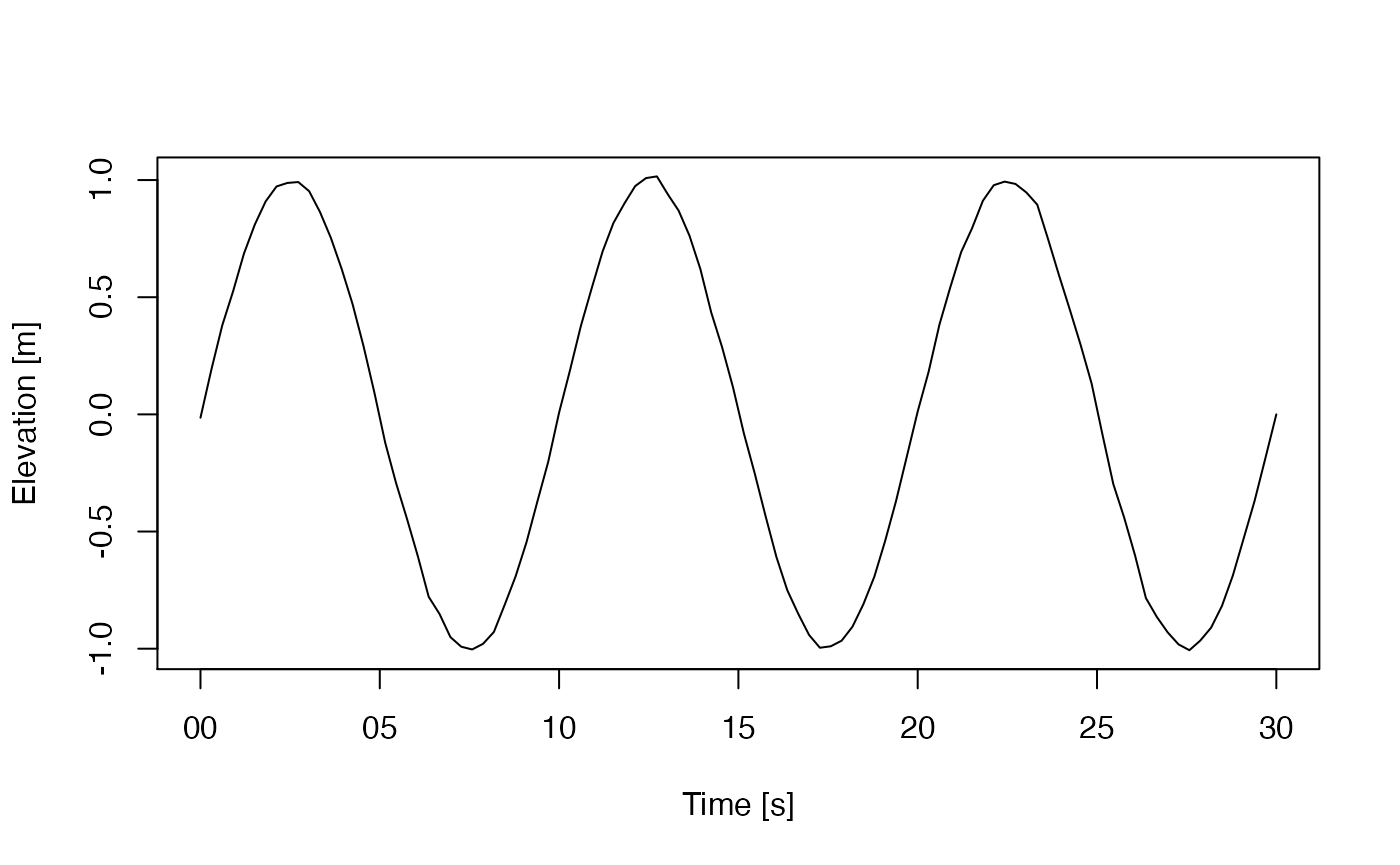
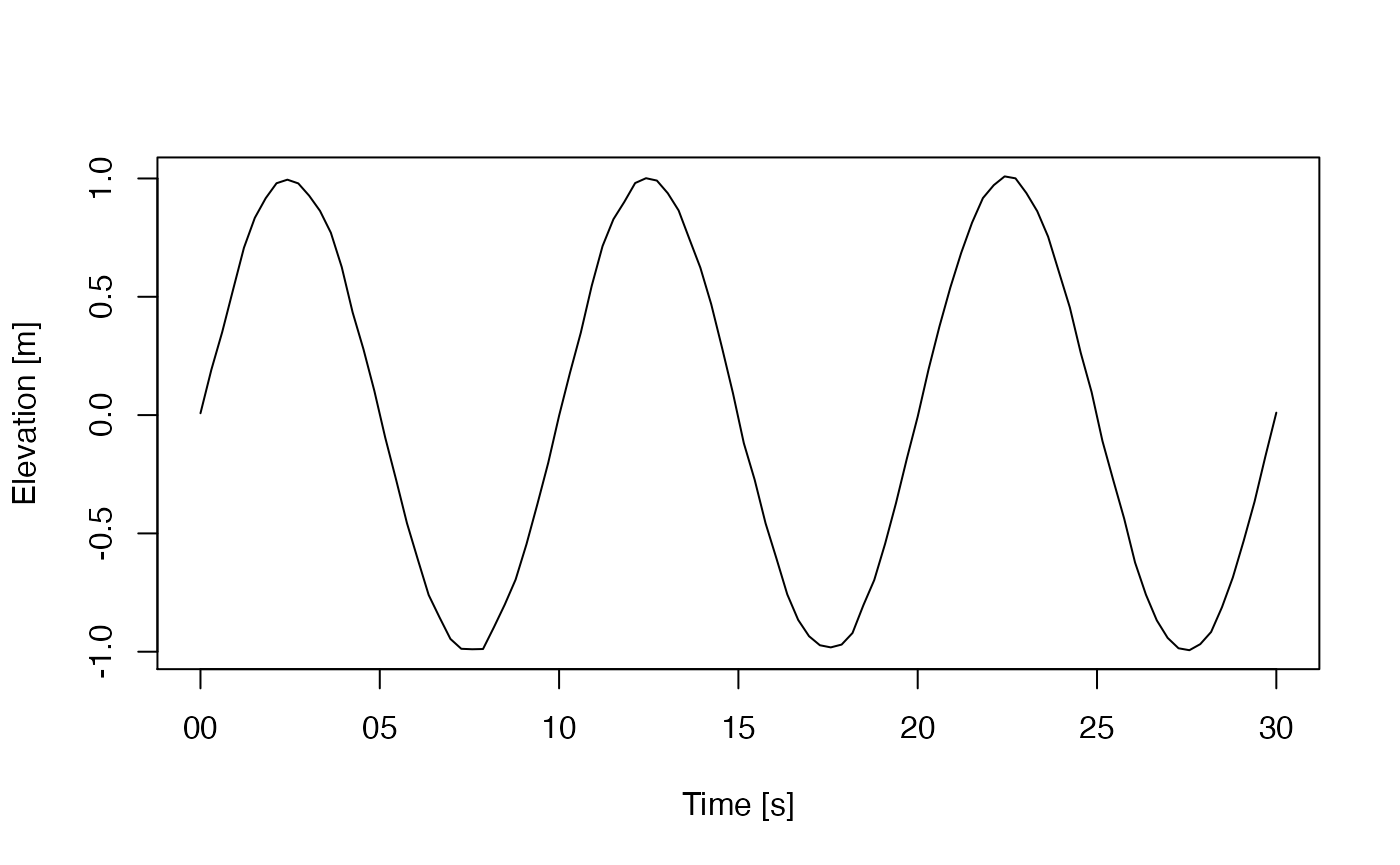
fix marmap cross ref?
I think the problem was that had e.g. `pkg::function` in a Roxygen line,
and the :: triggered Roxygen to build a link. I must have been thinking
that autolinks only happened with the [] syntax.

diff --git a/docs/articles/subclassing.html b/docs/articles/subclassing.html
@@ -141,7 +141,7 @@
 <span class="co">#&gt;   .. ..$ flags: list()</span>
 <span class="co">#&gt;   ..@ data         : list()</span>
 <span class="co">#&gt;   ..@ processingLog:List of 2</span>
-<span class="co">#&gt;   .. ..$ time : POSIXct[1:1], format: "2021-03-27 20:01:53"</span>
+<span class="co">#&gt;   .. ..$ time : POSIXct[1:1], format: "2021-03-27 21:21:56"</span>
 <span class="co">#&gt;   .. ..$ value: chr "Create oce object"</span></code></pre></div>
 <p>As noted previously, it’s possible to insert <code>t</code>, <code>u</code>, and <code>v</code> directly into the <code>data</code> slot, but it’s better to use <code>oceSetData</code> to do that, because it can set up units, and it leaves a trail in the processing log.</p>
 <div class="sourceCode" id="cb4"><pre class="downlit sourceCode r">
@@ -164,12 +164,12 @@
 <span class="co">#&gt; </span>
 <span class="co">#&gt; * Processing Log</span>
 <span class="co">#&gt; </span>
-<span class="co">#&gt;     - 2021-03-27 20:01:53 UTC: `Create oce object`</span>
-<span class="co">#&gt;     - 2021-03-27 20:01:53 UTC: `oceSetData(object = o, name = "t", value = t, unit = list(unit = expression(s),     scale = ""))`</span>
-<span class="co">#&gt;     - 2021-03-27 20:01:53 UTC: `oceSetData(object = o, name = "u", value = u, unit = list(unit = expression(m/s),     scale = ""))`</span>
-<span class="co">#&gt;     - 2021-03-27 20:01:53 UTC: `oceSetData(object = o, name = "v", value = v, unit = list(unit = expression(m/s),     scale = ""))`</span>
-<span class="co">#&gt;     - 2021-03-27 20:01:53 UTC: `oceSetMetadata(object = o, name = "longitude", value = lon)`</span>
-<span class="co">#&gt;     - 2021-03-27 20:01:53 UTC: `oceSetMetadata(object = o, name = "latitude", value = lat)`</span></code></pre></div>
+<span class="co">#&gt;     - 2021-03-27 21:21:56 UTC: `Create oce object`</span>
+<span class="co">#&gt;     - 2021-03-27 21:21:57 UTC: `oceSetData(object = o, name = "t", value = t, unit = list(unit = expression(s),     scale = ""))`</span>
+<span class="co">#&gt;     - 2021-03-27 21:21:57 UTC: `oceSetData(object = o, name = "u", value = u, unit = list(unit = expression(m/s),     scale = ""))`</span>
+<span class="co">#&gt;     - 2021-03-27 21:21:57 UTC: `oceSetData(object = o, name = "v", value = v, unit = list(unit = expression(m/s),     scale = ""))`</span>
+<span class="co">#&gt;     - 2021-03-27 21:21:57 UTC: `oceSetMetadata(object = o, name = "longitude", value = lon)`</span>
+<span class="co">#&gt;     - 2021-03-27 21:21:57 UTC: `oceSetMetadata(object = o, name = "latitude", value = lat)`</span></code></pre></div>
 <p>and individual data components may be extracted with the <code><a href="https://rdrr.io/r/base/Extract.html">[[</a></code> notation</p>
 <div class="sourceCode" id="cb7"><pre class="downlit sourceCode r">
 <code class="sourceCode R"><span class="va">o</span><span class="op">[[</span><span class="st">"latitude"</span><span class="op">]</span><span class="op">]</span>                        <span class="co"># from metadata</span>
@@ -247,7 +247,7 @@
 <span class="co">#&gt; </span>
 <span class="co">#&gt; * Processing Log</span>
 <span class="co">#&gt; </span>
-<span class="co">#&gt;     - 2021-03-27 20:01:53 UTC: `create 'uv' object`</span>
+<span class="co">#&gt;     - 2021-03-27 21:21:57 UTC: `create 'uv' object`</span>
 <span class="co">#&gt; NULL</span></code></pre></div>
 <p>Finally, let’s make a custom method for <code>plot</code>. This is usually the most complicated part of handling any new object class, because there are usually many ways to look at data. (Some <code>oce</code> objects have over a dozen specialized plot styles.) Let’s suppose there are only two desired plot styles: one showing timeseries of <code>u</code> and <code>v</code> in a two panel plot, and the other showing how <code>u</code> and <code>v</code> covary.</p>
 <div class="sourceCode" id="cb14"><pre class="downlit sourceCode r">
@@ -319,7 +319,7 @@
 <span class="co">#&gt;   .. ..$ flags: list()</span>
 <span class="co">#&gt;   ..@ data         : list()</span>
 <span class="co">#&gt;   ..@ processingLog:List of 2</span>
-<span class="co">#&gt;   .. ..$ time : POSIXct[1:1], format: "2021-03-27 20:01:54"</span>
+<span class="co">#&gt;   .. ..$ time : POSIXct[1:1], format: "2021-03-27 21:21:58"</span>
 <span class="co">#&gt;   .. ..$ value: chr "Create oce object"</span></code></pre></div>
 <p>Notice that <code>w</code> three <code>oce</code> “slots”, named <code>metadata</code>, <code>data</code> and <code>processingLog</code>. These are inherited from <code>oce</code>. The first is meant to hold information about the data, such as a file-name, an instrument number, a location of sampling, etc. The second is meant to hold actual data or measurements. And the third, not normally accessed by the user directly, holds information about the object’s evolution (note that the object considers itself an <code>oce</code> object). The names of these three slots are usually enough to keep them straight in the analyst’s head, although it can sometimes be difficult deciding whether something belongs in <code>metadata</code> or <code>data</code>.</p>
 <p>The <code>oce</code> system also provides its objects with certain operators and functions. For example, <code><a href="https://rdrr.io/r/base/Extract.html">[[</a></code> can be used to retrieve the slots, items within the slots, and (in some cases) values that may be calculated from the contents of the slots (e.g. <code>ctd</code> and similar objects related to hydrography can return calculated potential temperature or Conservative Temperature, even though neither is typically stored in such datasets).</p>
@@ -352,7 +352,7 @@
 <span class="co">#&gt;   .. ..$ station: chr "STN01"</span>
 <span class="co">#&gt;   ..@ data         : list()</span>
 <span class="co">#&gt;   ..@ processingLog:List of 2</span>
-<span class="co">#&gt;   .. ..$ time : POSIXct[1:1], format: "2021-03-27 20:01:54"</span>
+<span class="co">#&gt;   .. ..$ time : POSIXct[1:1], format: "2021-03-27 21:21:58"</span>
 <span class="co">#&gt;   .. ..$ value: chr "Create oce object"</span></code></pre></div>
 <p>However, there is a better way to insert metadata, with the <code>oceSetMetadata</code> function, e.g.</p>
 <div class="sourceCode" id="cb26"><pre class="downlit sourceCode r">
@@ -382,15 +382,15 @@
 <span class="co">#&gt; * Time ranges from 2019-01-01 to 2019-01-01 00:00:30 with 100 samples and mean increment 0.3030303 s</span>
 <span class="co">#&gt; * Data Overview</span>
 <span class="co">#&gt; </span>
-<span class="co">#&gt;                  Min.      Mean   Max. Dim. NAs OriginalName</span>
-<span class="co">#&gt;     elevation -1.0065 0.0016072 1.0156  100   0            -</span>
+<span class="co">#&gt;                   Min.       Mean   Max. Dim. NAs OriginalName</span>
+<span class="co">#&gt;     elevation -0.99361 0.00090052 1.0088  100   0            -</span>
 <span class="co">#&gt; </span>
 <span class="co">#&gt; * Processing Log</span>
 <span class="co">#&gt; </span>
-<span class="co">#&gt;     - 2021-03-27 20:01:54 UTC: `Create oce object`</span>
-<span class="co">#&gt;     - 2021-03-27 20:01:54 UTC: `oceSetMetadata(object = w, name = "serialNumber", value = 1234)`</span>
-<span class="co">#&gt;     - 2021-03-27 20:01:54 UTC: `oceSetData(object = w, name = "time", value = t)`</span>
-<span class="co">#&gt;     - 2021-03-27 20:01:54 UTC: `oceSetData(object = w, name = "elevation", value = e)`</span></code></pre></div>
+<span class="co">#&gt;     - 2021-03-27 21:21:58 UTC: `Create oce object`</span>
+<span class="co">#&gt;     - 2021-03-27 21:21:58 UTC: `oceSetMetadata(object = w, name = "serialNumber", value = 1234)`</span>
+<span class="co">#&gt;     - 2021-03-27 21:21:58 UTC: `oceSetData(object = w, name = "time", value = t)`</span>
+<span class="co">#&gt;     - 2021-03-27 21:21:58 UTC: `oceSetData(object = w, name = "elevation", value = e)`</span></code></pre></div>
 <p>This produces a useful summary not just of the data, but also of how the object was constructed. But we can do better. In some crazy world, someone might consider measuring elevation in feet, not metres, and so we ought to specify the unit. The way to do this is with the <code>unit</code> argument of <code>oceSetData</code>. This is a somewhat tricky argument, as a study of the result of <code><a href="../reference/oceSetData.html">?oceSetData</a></code> will reveal. For now, we just show a common way, without explanation, writing</p>
 <div class="sourceCode" id="cb31"><pre class="downlit sourceCode r">
 <code class="sourceCode R"><span class="va">w</span> <span class="op">&lt;-</span> <span class="fu"><a href="../reference/oceSetData.html">oceSetData</a></span><span class="op">(</span><span class="va">w</span>, <span class="st">"elevation"</span>, <span class="va">e</span>, unit<span class="op">=</span><span class="fu"><a href="https://rdrr.io/r/base/list.html">list</a></span><span class="op">(</span>unit<span class="op">=</span><span class="fu"><a href="https://rdrr.io/r/base/expression.html">expression</a></span><span class="op">(</span><span class="va">m</span><span class="op">)</span>,scale<span class="op">=</span><span class="st">""</span><span class="op">)</span><span class="op">)</span></code></pre></div>
@@ -400,16 +400,16 @@
 <span class="co">#&gt; * Time ranges from 2019-01-01 to 2019-01-01 00:00:30 with 100 samples and mean increment 0.3030303 s</span>
 <span class="co">#&gt; * Data Overview</span>
 <span class="co">#&gt; </span>
-<span class="co">#&gt;                      Min.      Mean   Max. Dim. NAs OriginalName</span>
-<span class="co">#&gt;     elevation [m] -1.0065 0.0016072 1.0156  100   0            -</span>
+<span class="co">#&gt;                       Min.       Mean   Max. Dim. NAs OriginalName</span>
+<span class="co">#&gt;     elevation [m] -0.99361 0.00090052 1.0088  100   0            -</span>
 <span class="co">#&gt; </span>
 <span class="co">#&gt; * Processing Log</span>
 <span class="co">#&gt; </span>
-<span class="co">#&gt;     - 2021-03-27 20:01:54 UTC: `Create oce object`</span>
-<span class="co">#&gt;     - 2021-03-27 20:01:54 UTC: `oceSetMetadata(object = w, name = "serialNumber", value = 1234)`</span>
-<span class="co">#&gt;     - 2021-03-27 20:01:54 UTC: `oceSetData(object = w, name = "time", value = t)`</span>
-<span class="co">#&gt;     - 2021-03-27 20:01:54 UTC: `oceSetData(object = w, name = "elevation", value = e)`</span>
-<span class="co">#&gt;     - 2021-03-27 20:01:55 UTC: `oceSetData(object = w, name = "elevation", value = e, unit = list(unit = expression(m),     scale = ""))`</span></code></pre></div>
+<span class="co">#&gt;     - 2021-03-27 21:21:58 UTC: `Create oce object`</span>
+<span class="co">#&gt;     - 2021-03-27 21:21:58 UTC: `oceSetMetadata(object = w, name = "serialNumber", value = 1234)`</span>
+<span class="co">#&gt;     - 2021-03-27 21:21:58 UTC: `oceSetData(object = w, name = "time", value = t)`</span>
+<span class="co">#&gt;     - 2021-03-27 21:21:58 UTC: `oceSetData(object = w, name = "elevation", value = e)`</span>
+<span class="co">#&gt;     - 2021-03-27 21:21:58 UTC: `oceSetData(object = w, name = "elevation", value = e, unit = list(unit = expression(m),     scale = ""))`</span></code></pre></div>
 <p>Notice that we now have a unit on the elevation, but we  have an indication that the value of that quantity was defined twice. This processing-log feature is one of the big advantages of using <code>oceSetData</code> over direct insertion into an object.</p>
 </div>
 <div id="adding-specialized-functions" class="section level2">
@@ -470,12 +470,12 @@
 <span class="co">#&gt; * Time ranges from 2019-01-01 to 2019-01-01 00:00:30 with 100 samples and mean increment 0.3030303 s</span>
 <span class="co">#&gt; * Data Overview</span>
 <span class="co">#&gt; </span>
-<span class="co">#&gt;                      Min.      Mean   Max. Dim. NAs OriginalName</span>
-<span class="co">#&gt;     elevation [m] -1.0065 0.0016072 1.0156  100   0            -</span>
+<span class="co">#&gt;                       Min.       Mean   Max. Dim. NAs OriginalName</span>
+<span class="co">#&gt;     elevation [m] -0.99361 0.00090052 1.0088  100   0            -</span>
 <span class="co">#&gt; </span>
 <span class="co">#&gt; * Processing Log</span>
 <span class="co">#&gt; </span>
-<span class="co">#&gt;     - 2021-03-27 20:01:55 UTC: `create 'wave' object`</span></code></pre></div>
+<span class="co">#&gt;     - 2021-03-27 21:21:59 UTC: `create 'wave' object`</span></code></pre></div>
 <p>Notice that the units now appear, without complication to the user. Oh, and this object now knows that it is a <code>wave</code> object, not an <code>oce</code> object  our little class is getting smarter by the minute!</p>
 </div>
 <div id="specializing-the-operator" class="section level2">
@@ -498,9 +498,9 @@
 <p>The test</p>
 <div class="sourceCode" id="cb39"><pre class="downlit sourceCode r">
 <code class="sourceCode R"><span class="va">w</span><span class="op">[[</span><span class="st">"peak"</span><span class="op">]</span><span class="op">]</span>
-<span class="co">#&gt; [1] 1.015625</span>
+<span class="co">#&gt; [1] 1.008766</span>
 <span class="fu"><a href="https://rdrr.io/r/utils/str.html">str</a></span><span class="op">(</span><span class="va">w</span><span class="op">[[</span><span class="st">"elevation"</span><span class="op">]</span><span class="op">]</span><span class="op">)</span>
-<span class="co">#&gt;  num [1:100] -0.0143 0.1904 0.3791 0.5251 0.686 ...</span></code></pre></div>
+<span class="co">#&gt;  num [1:100] 0.00782 0.19142 0.35083 0.52994 0.7071 ...</span></code></pre></div>
 <p>verifies that our new code works for getting the peak value, and that it falls back to the <code>oce</code> code for other calls.</p>
 </div>
 </div>

diff --git a/docs/reference/as.section.html b/docs/reference/as.section.html
@@ -261,8 +261,8 @@ and these are assembled into a section to be returned.</p>
 #&gt;     2  fake -63.6339  44.6843     181    44
 #&gt; * Processing Log
 #&gt; 
-#&gt;     - 2021-03-27 19:58:59 UTC: `create 'section' object`
-#&gt;     - 2021-03-27 19:58:59 UTC: `as.section(salinity = c("ctd", "fake"))`</div><div class='input'><span class='co'>## vector of CTD objects</span>
+#&gt;     - 2021-03-27 21:19:10 UTC: `create 'section' object`
+#&gt;     - 2021-03-27 21:19:10 UTC: `as.section(salinity = c("ctd", "fake"))`</div><div class='input'><span class='co'>## vector of CTD objects</span>
 <span class='va'>ctds</span> <span class='op'>&lt;-</span> <span class='fu'><a href='https://rdrr.io/r/base/vector.html'>vector</a></span><span class='op'>(</span><span class='st'>"list"</span>, <span class='fl'>2</span><span class='op'>)</span>
 <span class='va'>ctds</span><span class='op'>[[</span><span class='fl'>1</span><span class='op'>]</span><span class='op'>]</span> <span class='op'>&lt;-</span> <span class='va'>ctd</span>
 <span class='va'>ctds</span><span class='op'>[[</span><span class='fl'>2</span><span class='op'>]</span><span class='op'>]</span> <span class='op'>&lt;-</span> <span class='va'>fake</span>
@@ -279,8 +279,8 @@ and these are assembled into a section to be returned.</p>
 #&gt;     2  fake -63.6339  44.6843     181    44
 #&gt; * Processing Log
 #&gt; 
-#&gt;     - 2021-03-27 19:58:59 UTC: `create 'section' object`
-#&gt;     - 2021-03-27 19:58:59 UTC: `as.section(salinity = ctds)`</div><div class='input'><span class='co'>## argo data (a subset)</span>
+#&gt;     - 2021-03-27 21:19:10 UTC: `create 'section' object`
+#&gt;     - 2021-03-27 21:19:10 UTC: `as.section(salinity = ctds)`</div><div class='input'><span class='co'>## argo data (a subset)</span>
 <span class='fu'><a href='https://rdrr.io/r/utils/data.html'>data</a></span><span class='op'>(</span><span class='va'>argo</span><span class='op'>)</span>
 <span class='va'>sec3</span> <span class='op'>&lt;-</span> <span class='fu'>as.section</span><span class='op'>(</span><span class='fu'><a href='https://rdrr.io/r/base/subset.html'>subset</a></span><span class='op'>(</span><span class='va'>argo</span>, <span class='va'>profile</span><span class='op'>&lt;</span><span class='fl'>5</span><span class='op'>)</span><span class='op'>)</span>
 <span class='fu'><a href='https://rdrr.io/r/base/summary.html'>summary</a></span><span class='op'>(</span><span class='va'>sec3</span><span class='op'>)</span>
@@ -297,8 +297,8 @@ and these are assembled into a section to be returned.</p>
 #&gt;     4     4 -22.4160  61.2520      56  1768
 #&gt; * Processing Log
 #&gt; 
-#&gt;     - 2021-03-27 19:58:59 UTC: `create 'section' object`
-#&gt;     - 2021-03-27 19:58:59 UTC: `as.section(salinity = subset(argo, profile &lt; 5))`</div><div class='input'>
+#&gt;     - 2021-03-27 21:19:10 UTC: `create 'section' object`
+#&gt;     - 2021-03-27 21:19:10 UTC: `as.section(salinity = subset(argo, profile &lt; 5))`</div><div class='input'>
 </div></pre>
   </div>
   <div class="col-md-3 hidden-xs hidden-sm" id="pkgdown-sidebar">

diff --git a/docs/reference/download.topo.html b/docs/reference/download.topo.html
@@ -45,7 +45,7 @@ dataset (Amante, C. and B.W. Eakins, 2009), and saved as a netCDF file whose
 name specifies the data request, if a file of that name is not already
 present on the local file system.  The return value is the name of the data
 file, and its typical use is as the filename for a call to read.topo().
-Given the rules on file naming, subsequent calls to download.topo()
+Given the rules on file naming, subsequent calls to download.topo
 with identical parameters will simply return the name of the cached file,
 assuming the user has not deleted it in the meantime." />
 
@@ -156,7 +156,7 @@ dataset (Amante, C. and B.W. Eakins, 2009), and saved as a netCDF file whose
 name specifies the data request, if a file of that name is not already
 present on the local file system.  The return value is the name of the data
 file, and its typical use is as the filename for a call to <code><a href='read.topo.html'>read.topo()</a></code>.
-Given the rules on file naming, subsequent calls to <code>download.topo()</code>
+Given the rules on file naming, subsequent calls to <code>download.topo</code>
 with identical parameters will simply return the name of the cached file,
 assuming the user has not deleted it in the meantime.</p>
     </div>
@@ -241,16 +241,17 @@ by specifying higher <code>debug</code> values.</p></td>
     <p>The specified longitude and latitude limits are rounded to 2 digits
 (corresponding to a footprint of approximately 1km), and these are used
 in the server request. If the resultant request would generate under
-1 row or column in the result, download.topo generates an
+1 row or column in the result, <code>download.topo</code> generates an
 error message and stops.</p>
     <h2 class="hasAnchor" id="historical-note-relating-to-noaa-server-changes"><a class="anchor" href="#historical-note-relating-to-noaa-server-changes"></a>Historical note relating to NOAA server changes</h2>
 
     
 
-<p>In May of 2020, <code>download.topo()</code> stopped working, evidently owing
+<p>In May of 2020, <code>download.topo</code> stopped working, evidently owing
 to changes in the NOAA server API, which had been inferred by reverse
-engineering a NOAA data-request website. Luckily, <code><a href='https://rdrr.io/pkg/marmap/man/getNOAA.bathy.html'>marmap::getNOAA.bathy()</a></code>
-was found to be working at that time, and so <code>download.topo()</code> was revised based on
+engineering a NOAA data-request website. However, the
+<code>marmap</code> function <code>getNOAA.bathy</code>
+was found to be working at that time, and so <code>download.topo</code> was revised based on
 that function.  The problem of keeping up with changing data-server APIs should
 be easier in the future, since NOAA has made the API public.</p>
     <h2 class="hasAnchor" id="references"><a class="anchor" href="#references"></a>References</h2>

diff --git a/docs/reference/as.cm.html b/docs/reference/as.cm.html
@@ -225,7 +225,7 @@ by specifying higher <code>debug</code> values.</p></td>
 </div><div class='output co'>#&gt; Cm summary
 #&gt; ----------
 #&gt; 
-#&gt; * Time ranges from 2021-03-27 16:58:57 to 2021-03-27 16:59:47 with 51 samples and mean increment 1 s
+#&gt; * Time ranges from 2021-03-27 18:19:09 to 2021-03-27 18:19:59 with 51 samples and mean increment 1 s
 #&gt; * Data Overview
 #&gt; 
 #&gt;                        Min.      Mean   Max. Dim. NAs OriginalName
@@ -235,8 +235,8 @@ by specifying higher <code>debug</code> values.</p></td>
 #&gt; 
 #&gt; * Processing Log
 #&gt; 
-#&gt;     - 2021-03-27 19:58:57 UTC: `create 'cm' object`
-#&gt;     - 2021-03-27 19:58:57 UTC: `as.cm(time = t, u = u, v = v, pressure = p)`</div><div class='input'>
+#&gt;     - 2021-03-27 21:19:09 UTC: `create 'cm' object`
+#&gt;     - 2021-03-27 21:19:09 UTC: `as.cm(time = t, u = u, v = v, pressure = p)`</div><div class='input'>
 <span class='co'># Example 2: creation from an adv object</span>
 <span class='fu'><a href='https://rdrr.io/r/utils/data.html'>data</a></span><span class='op'>(</span><span class='va'>adv</span><span class='op'>)</span>
 <span class='fu'><a href='https://rdrr.io/r/base/summary.html'>summary</a></span><span class='op'>(</span><span class='fu'>as.cm</span><span class='op'>(</span><span class='va'>adv</span><span class='op'>)</span><span class='op'>)</span>
@@ -262,7 +262,7 @@ by specifying higher <code>debug</code> values.</p></td>
 #&gt;     - 2015-12-23 17:53:55 UTC: `use aquadoppHR heading; despike own pitch and roll`
 #&gt;     - 2015-12-23 17:54:11 UTC: `beamToXyzAdv(x = x)`
 #&gt;     - 2015-12-23 17:54:34 UTC: `xyzToEnu(x, declination=-18.099, horizontalCase=TRUE, sensorOrientiation=upward, debug=0)`
-#&gt;     - 2021-03-27 19:58:57 UTC: `as.cm(time = adv)`</div><div class='input'>
+#&gt;     - 2021-03-27 21:19:09 UTC: `as.cm(time = adv)`</div><div class='input'>
 </div></pre>
   </div>
   <div class="col-md-3 hidden-xs hidden-sm" id="pkgdown-sidebar">

diff --git a/docs/reference/as.ctd.html b/docs/reference/as.ctd.html
@@ -450,9 +450,9 @@ Engineering</em>, volume <strong>5</strong>, pages 22-23.</p>
 #&gt; 
 #&gt; * Processing Log
 #&gt; 
-#&gt;     - 2021-03-27 19:58:57 UTC: `create 'ctd' object`
-#&gt;     - 2021-03-27 19:58:57 UTC: `as.ctd(salinity = salinity, temperature = temperature, pressure = pressure)`
-#&gt;     - 2021-03-27 19:58:57 UTC: `oceSetData(object = ctd, name = "fluorescence", value = fluo,     unit = list(unit = expression(mg/m^3), scale = ""))`</div><div class='input'>
+#&gt;     - 2021-03-27 21:19:09 UTC: `create 'ctd' object`
+#&gt;     - 2021-03-27 21:19:09 UTC: `as.ctd(salinity = salinity, temperature = temperature, pressure = pressure)`
+#&gt;     - 2021-03-27 21:19:09 UTC: `oceSetData(object = ctd, name = "fluorescence", value = fluo,     unit = list(unit = expression(mg/m^3), scale = ""))`</div><div class='input'>
 <span class='co'>## 2. fake data, with supplied units (which are the defaults, actually)</span>
 <span class='va'>ctd</span> <span class='op'>&lt;-</span> <span class='fu'>as.ctd</span><span class='op'>(</span><span class='va'>salinity</span>, <span class='va'>temperature</span>, <span class='va'>pressure</span>,
     units<span class='op'>=</span><span class='fu'><a href='https://rdrr.io/r/base/list.html'>list</a></span><span class='op'>(</span>salinity<span class='op'>=</span><span class='fu'><a href='https://rdrr.io/r/base/list.html'>list</a></span><span class='op'>(</span>unit<span class='op'>=</span><span class='fu'><a href='https://rdrr.io/r/base/expression.html'>expression</a></span><span class='op'>(</span><span class='op'>)</span>, scale<span class='op'>=</span><span class='st'>"PSS-78"</span><span class='op'>)</span>,

diff --git a/docs/reference/as.sealevel.html b/docs/reference/as.sealevel.html
@@ -299,8 +299,8 @@ with them.</p>
 #&gt; 
 #&gt; * Processing Log
 #&gt; 
-#&gt;     - 2021-03-27 19:58:58 UTC: `create 'sealevel' object`
-#&gt;     - 2021-03-27 19:58:58 UTC: `as.sealevel(elevation = elevation)`</div><div class='input'>
+#&gt;     - 2021-03-27 21:19:10 UTC: `create 'sealevel' object`
+#&gt;     - 2021-03-27 21:19:10 UTC: `as.sealevel(elevation = elevation)`</div><div class='input'>
 <span class='co'># As above, but start at the Y2K time.</span>
 <span class='va'>time</span> <span class='op'>&lt;-</span> <span class='fu'><a href='https://rdrr.io/r/base/as.POSIXlt.html'>as.POSIXct</a></span><span class='op'>(</span><span class='st'>"2000-01-01"</span><span class='op'>)</span> <span class='op'>+</span> <span class='va'>h</span> <span class='op'>*</span> <span class='fl'>3600</span>
 <span class='va'>sl</span> <span class='op'>&lt;-</span> <span class='fu'>as.sealevel</span><span class='op'>(</span><span class='va'>elevation</span>, <span class='va'>time</span><span class='op'>)</span>
@@ -320,8 +320,8 @@ with them.</p>
 #&gt; 
 #&gt; * Processing Log
 #&gt; 
-#&gt;     - 2021-03-27 19:58:58 UTC: `create 'sealevel' object`
-#&gt;     - 2021-03-27 19:58:58 UTC: `as.sealevel(elevation = elevation, time = time)`</div></pre>
+#&gt;     - 2021-03-27 21:19:10 UTC: `create 'sealevel' object`
+#&gt;     - 2021-03-27 21:19:10 UTC: `as.sealevel(elevation = elevation, time = time)`</div></pre>
   </div>
   <div class="col-md-3 hidden-xs hidden-sm" id="pkgdown-sidebar">
     <nav id="toc" data-toggle="toc" class="sticky-top">

diff --git a/docs/reference/read.xbt.html b/docs/reference/read.xbt.html
@@ -232,7 +232,7 @@ https://pages.uoregon.edu/drt/MGL0910_Science_Report/attachments/MK21_ISA_Manual
 </div><div class='output co'>#&gt; xbt summary
 #&gt; -----------
 #&gt; 
-#&gt; * File source:        "/private/var/folders/8b/l4h64m1j22v5pb7vj049ff140000gn/T/RtmpfZr3rG/temp_libpath91aa63aea014/oce/extdata/xbt.edf"
+#&gt; * File source:        "/private/var/folders/8b/l4h64m1j22v5pb7vj049ff140000gn/T/RtmpbOUFzd/temp_libpathbe105ebdf02/oce/extdata/xbt.edf"
 #&gt; * Serial Number:      0
 #&gt; * Longitude:          4.005
 #&gt; * Latitude:           -4
@@ -246,8 +246,8 @@ https://pages.uoregon.edu/drt/MGL0910_Science_Report/attachments/MK21_ISA_Manual
 #&gt; 
 #&gt; * Processing Log
 #&gt; 
-#&gt;     - 2021-03-27 20:00:25 UTC: `create 'xbt' object`
-#&gt;     - 2021-03-27 20:00:25 UTC: `read.xbt.edf(file = file)`</div><div class='input'><span class='fu'><a href='https://rdrr.io/r/graphics/plot.default.html'>plot</a></span><span class='op'>(</span><span class='va'>xbt</span><span class='op'>)</span>
+#&gt;     - 2021-03-27 21:20:32 UTC: `create 'xbt' object`
+#&gt;     - 2021-03-27 21:20:32 UTC: `read.xbt.edf(file = file)`</div><div class='input'><span class='fu'><a href='https://rdrr.io/r/graphics/plot.default.html'>plot</a></span><span class='op'>(</span><span class='va'>xbt</span><span class='op'>)</span>
 </div><div class='img'><img src='read.xbt-1.png' alt='' width='700' height='433' /></div><div class='input'>
 </div></pre>
   </div>

diff --git a/docs/reference/tidem.html b/docs/reference/tidem.html
@@ -459,8 +459,8 @@ Computers and Geosciences, 28, 929-937.</p>
 #&gt; Signif. codes:  0 ‘***’ 0.001 ‘**’ 0.01 ‘*’ 0.05 ‘.’ 0.1 ‘ ’ 1
 #&gt; * Processing Log
 #&gt; 
-#&gt;     - 2021-03-27 20:01:09 UTC: `create 'tidem' object`
-#&gt;     - 2021-03-27 20:01:09 UTC: `tidem(t = sealevelTuktoyaktuk)`</div><div class='input'>
+#&gt;     - 2021-03-27 21:21:15 UTC: `create 'tidem' object`
+#&gt;     - 2021-03-27 21:21:15 UTC: `tidem(t = sealevelTuktoyaktuk)`</div><div class='input'>
 <span class='co'># AIC analysis</span>
 <span class='fu'><a href='https://rdrr.io/r/stats/extractAIC.html'>extractAIC</a></span><span class='op'>(</span><span class='va'>tide</span><span class='op'>[[</span><span class='st'>"model"</span><span class='op'>]</span><span class='op'>]</span><span class='op'>)</span>
 </div><div class='output co'>#&gt; [1]   71.0000 -606.0823</div><div class='input'>
@@ -493,8 +493,8 @@ Computers and Geosciences, 28, 929-937.</p>
 #&gt; Signif. codes:  0 ‘***’ 0.001 ‘**’ 0.01 ‘*’ 0.05 ‘.’ 0.1 ‘ ’ 1
 #&gt; * Processing Log
 #&gt; 
-#&gt;     - 2021-03-27 20:01:09 UTC: `create 'tidem' object`
-#&gt;     - 2021-03-27 20:01:09 UTC: `tidem(t = sl)`</div><div class='input'>
+#&gt;     - 2021-03-27 21:21:15 UTC: `create 'tidem' object`
+#&gt;     - 2021-03-27 21:21:15 UTC: `tidem(t = sl)`</div><div class='input'>
 </div></pre>
   </div>
   <div class="col-md-3 hidden-xs hidden-sm" id="pkgdown-sidebar">

diff --git a/docs/reference/read.xbt.edf.html b/docs/reference/read.xbt.edf.html
@@ -214,7 +214,7 @@ can find a way to otherwise silence the NOTE.</p>
 </div><div class='output co'>#&gt; xbt summary
 #&gt; -----------
 #&gt; 
-#&gt; * File source:        "/private/var/folders/8b/l4h64m1j22v5pb7vj049ff140000gn/T/RtmpfZr3rG/temp_libpath91aa63aea014/oce/extdata/xbt.edf"
+#&gt; * File source:        "/private/var/folders/8b/l4h64m1j22v5pb7vj049ff140000gn/T/RtmpbOUFzd/temp_libpathbe105ebdf02/oce/extdata/xbt.edf"
 #&gt; * Serial Number:      0
 #&gt; * Longitude:          4.005
 #&gt; * Latitude:           -4
@@ -228,8 +228,8 @@ can find a way to otherwise silence the NOTE.</p>
 #&gt; 
 #&gt; * Processing Log
 #&gt; 
-#&gt;     - 2021-03-27 20:00:25 UTC: `create 'xbt' object`
-#&gt;     - 2021-03-27 20:00:25 UTC: `read.xbt.edf(file = file)`</div><div class='input'><span class='fu'><a href='https://rdrr.io/r/graphics/plot.default.html'>plot</a></span><span class='op'>(</span><span class='va'>xbt</span><span class='op'>)</span>
+#&gt;     - 2021-03-27 21:20:32 UTC: `create 'xbt' object`
+#&gt;     - 2021-03-27 21:20:32 UTC: `read.xbt.edf(file = file)`</div><div class='input'><span class='fu'><a href='https://rdrr.io/r/graphics/plot.default.html'>plot</a></span><span class='op'>(</span><span class='va'>xbt</span><span class='op'>)</span>
 </div><div class='img'><img src='read.xbt.edf-1.png' alt='' width='700' height='433' /></div><div class='input'>
 </div></pre>
   </div>

diff --git a/docs/reference/initialize-ctd-method.html b/docs/reference/initialize-ctd-method.html
@@ -301,7 +301,7 @@ on elements stored in <code>ctd</code> objects.</p>
 #&gt; 
 #&gt; * Processing Log
 #&gt; 
-#&gt;     - 2021-03-27 19:59:25 UTC: `create 'ctd' object`</div><div class='input'><span class='fu'><a href='https://rdrr.io/r/graphics/plot.default.html'>plot</a></span><span class='op'>(</span><span class='va'>ctd</span>, eos<span class='op'>=</span><span class='st'>"unesco"</span><span class='op'>)</span>
+#&gt;     - 2021-03-27 21:19:34 UTC: `create 'ctd' object`</div><div class='input'><span class='fu'><a href='https://rdrr.io/r/graphics/plot.default.html'>plot</a></span><span class='op'>(</span><span class='va'>ctd</span>, eos<span class='op'>=</span><span class='st'>"unesco"</span><span class='op'>)</span>
 </div><div class='img'><img src='initialize-ctd-method-1.png' alt='' width='700' height='433' /></div><div class='input'>
 <span class='co'>## 3. as 2, but insert location and plot with GSW equation of state.</span>
 <span class='va'>ctd</span> <span class='op'>&lt;-</span> <span class='fu'><a href='oceSetMetadata.html'>oceSetMetadata</a></span><span class='op'>(</span><span class='va'>ctd</span>, <span class='st'>"latitude"</span>, <span class='fl'>44</span><span class='op'>)</span>

diff --git a/docs/reference/ctd-class.html b/docs/reference/ctd-class.html
@@ -369,8 +369,8 @@ and sufficiently skilled users may even manipulate the contents directly.</p>
 #&gt; 
 #&gt; * Processing Log
 #&gt; 
-#&gt;     - 2021-03-27 19:59:07 UTC: `create 'ctd' object`
-#&gt;     - 2021-03-27 19:59:07 UTC: `as.ctd(salinity = 35 + 1:3/10, temperature = 10 - 1:3/10, pressure = 1:3)`</div><div class='input'>
+#&gt;     - 2021-03-27 21:19:18 UTC: `create 'ctd' object`
+#&gt;     - 2021-03-27 21:19:18 UTC: `as.ctd(salinity = 35 + 1:3/10, temperature = 10 - 1:3/10, pressure = 1:3)`</div><div class='input'>
 <span class='co'># 2. Fix a typo in a station latitude (fake! it's actually okay)</span>
 <span class='fu'><a href='https://rdrr.io/r/utils/data.html'>data</a></span><span class='op'>(</span><span class='va'>ctd</span><span class='op'>)</span>
 <span class='va'>ctd</span> <span class='op'>&lt;-</span> <span class='fu'><a href='oceSetMetadata.html'>oceSetMetadata</a></span><span class='op'>(</span><span class='va'>ctd</span>, <span class='st'>"latitude"</span>, <span class='va'>ctd</span><span class='op'>[[</span><span class='st'>"latitude"</span><span class='op'>]</span><span class='op'>]</span><span class='op'>-</span><span class='fl'>0.001</span>,

diff --git a/docs/articles/adp.html b/docs/articles/adp.html
@@ -320,8 +320,8 @@
 <span class="co">#&gt; Signif. codes:  0 '***' 0.001 '**' 0.01 '*' 0.05 '.' 0.1 ' ' 1</span>
 <span class="co">#&gt; * Processing Log</span>
 <span class="co">#&gt; </span>
-<span class="co">#&gt;     - 2021-03-27 20:01:21 UTC: `create 'tidem' object`</span>
-<span class="co">#&gt;     - 2021-03-27 20:01:21 UTC: `tidem(t = as.sealevel(pressure, time))`</span></code></pre></div>
+<span class="co">#&gt;     - 2021-03-27 21:21:26 UTC: `create 'tidem' object`</span>
+<span class="co">#&gt;     - 2021-03-27 21:21:26 UTC: `tidem(t = as.sealevel(pressure, time))`</span></code></pre></div>
 <p>(Note that it fitted for M2, but not S2, because the Rayleigh criterion prevents inferring both, and the conventional tidal analysis favours M2 over S2 if the time series is too short to fit for more than one semi-diurnal constituent.)</p>
 <p>A useful step might be to draw a tidal fit along with the data. It makes sense to construct a finer time grid, to get a smooth curve, as in the following (see <code><a href="../reference/predict.tidem.html">?predict.tidem</a></code>).</p>
 <div class="sourceCode" id="cb26"><pre class="downlit sourceCode r">
